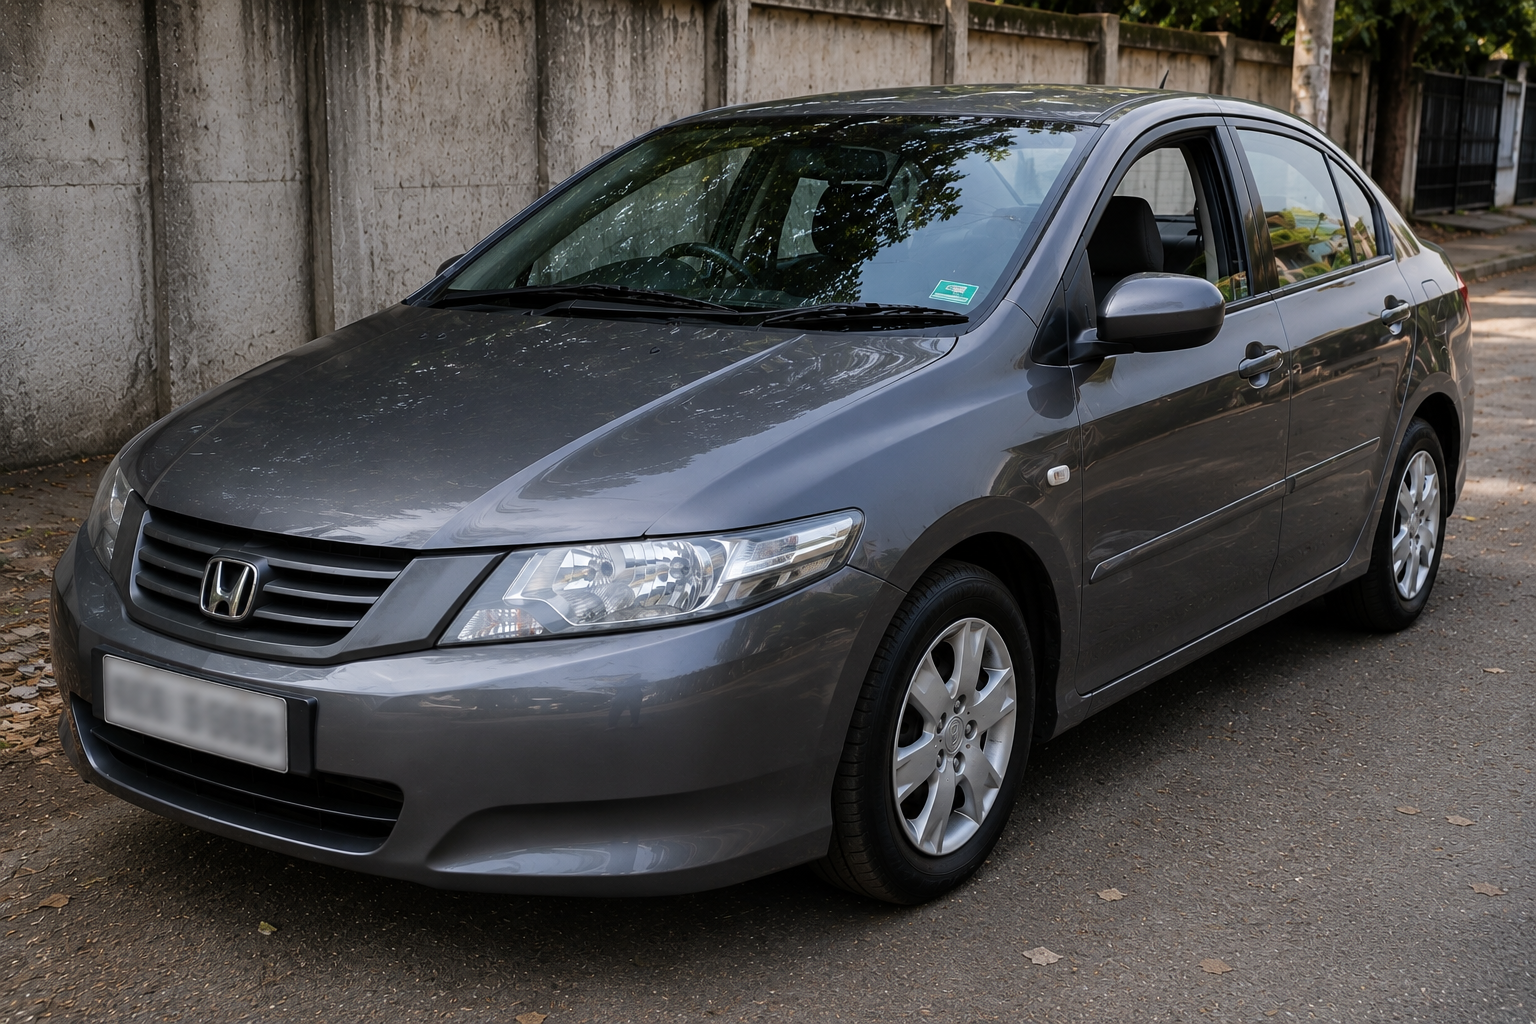
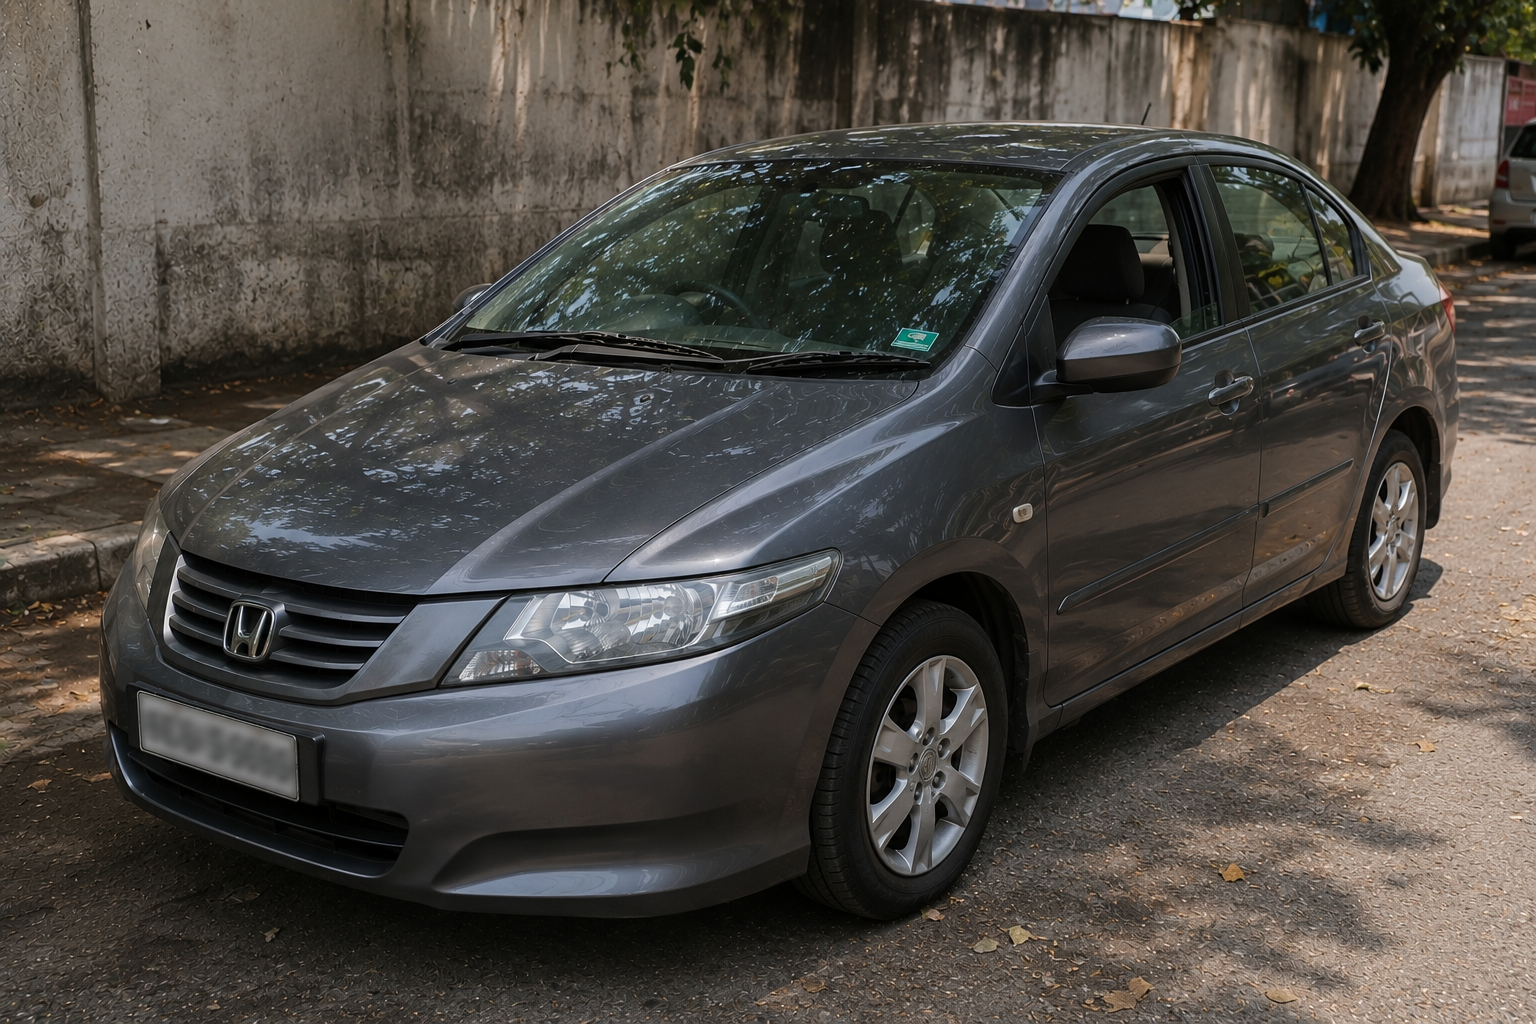
Update after-restoration image to the latest Honda City photo from Downloads

diff --git a/public/sw.js b/public/sw.js
@@ -1,1 +1,1 @@
-if(!self.define){let e,a={};const s=(s,c)=>(s=new URL(s+".js",c).href,a[s]||new Promise(a=>{if("document"in self){const e=document.createElement("script");e.src=s,e.onload=a,document.head.appendChild(e)}else e=s,importScripts(s),a()}).then(()=>{let e=a[s];if(!e)throw new Error(`Module ${s} didn’t register its module`);return e}));self.define=(c,i)=>{const n=e||("document"in self?document.currentScript.src:"")||location.href;if(a[n])return;let r={};const t=e=>s(e,n),o={module:{uri:n},exports:r,require:t};a[n]=Promise.all(c.map(e=>o[e]||t(e))).then(e=>(i(...e),r))}}define(["./workbox-f1770938"],function(e){"use strict";importScripts(),self.skipWaiting(),e.clientsClaim(),e.precacheAndRoute([{url:"/_next/static/chunks/371-4fcc08ecb23c93f7.js",revision:"4fcc08ecb23c93f7"},{url:"/_next/static/chunks/4bd1b696-215e5051988c3dde.js",revision:"215e5051988c3dde"},{url:"/_next/static/chunks/612-3a5bc498544b19ac.js",revision:"3a5bc498544b19ac"},{url:"/_next/static/chunks/619-5a6ea1041b274760.js",revision:"5a6ea1041b274760"},{url:"/_next/static/chunks/650-74768dba0629d000.js",revision:"74768dba0629d000"},{url:"/_next/static/chunks/674-693798524c2da1e4.js",revision:"693798524c2da1e4"},{url:"/_next/static/chunks/899.1813981119fa1f8a.js",revision:"1813981119fa1f8a"},{url:"/_next/static/chunks/909-7ef78ddb92262c58.js",revision:"7ef78ddb92262c58"},{url:"/_next/static/chunks/966.1775eb621d8d3e09.js",revision:"1775eb621d8d3e09"},{url:"/_next/static/chunks/app/_global-error/page-581cfa16c47d4639.js",revision:"581cfa16c47d4639"},{url:"/_next/static/chunks/app/_not-found/page-50c58c0dc87bdc28.js",revision:"50c58c0dc87bdc28"},{url:"/_next/static/chunks/app/about/page-e8c754edeffa663a.js",revision:"e8c754edeffa663a"},{url:"/_next/static/chunks/app/contact/page-ff059d1d2fb85ee0.js",revision:"ff059d1d2fb85ee0"},{url:"/_next/static/chunks/app/gallery/page-475c92fa3c39010c.js",revision:"475c92fa3c39010c"},{url:"/_next/static/chunks/app/layout-7cc00239a9dc1266.js",revision:"7cc00239a9dc1266"},{url:"/_next/static/chunks/app/login/page-5040cbc9862817fc.js",revision:"5040cbc9862817fc"},{url:"/_next/static/chunks/app/page-e1992984d1e6704f.js",revision:"e1992984d1e6704f"},{url:"/_next/static/chunks/app/pricing/page-64a4d9f3443b820a.js",revision:"64a4d9f3443b820a"},{url:"/_next/static/chunks/app/services/%5Bservice%5D/page-79e87e266be6da56.js",revision:"79e87e266be6da56"},{url:"/_next/static/chunks/app/services/page-c00b3a38924d5d76.js",revision:"c00b3a38924d5d76"},{url:"/_next/static/chunks/c15bf2b0-f76613f9ef9aefe2.js",revision:"f76613f9ef9aefe2"},{url:"/_next/static/chunks/framework-93cda6578f6c76ec.js",revision:"93cda6578f6c76ec"},{url:"/_next/static/chunks/main-66ae77c47bf90499.js",revision:"66ae77c47bf90499"},{url:"/_next/static/chunks/main-app-4d78563df7787970.js",revision:"4d78563df7787970"},{url:"/_next/static/chunks/next/dist/client/components/builtin/app-error-581cfa16c47d4639.js",revision:"581cfa16c47d4639"},{url:"/_next/static/chunks/next/dist/client/components/builtin/forbidden-581cfa16c47d4639.js",revision:"581cfa16c47d4639"},{url:"/_next/static/chunks/next/dist/client/components/builtin/global-error-163e86f1e6f973c9.js",revision:"163e86f1e6f973c9"},{url:"/_next/static/chunks/next/dist/client/components/builtin/not-found-581cfa16c47d4639.js",revision:"581cfa16c47d4639"},{url:"/_next/static/chunks/next/dist/client/components/builtin/unauthorized-581cfa16c47d4639.js",revision:"581cfa16c47d4639"},{url:"/_next/static/chunks/polyfills-42372ed130431b0a.js",revision:"846118c33b2c0e922d7b3a7676f81f6f"},{url:"/_next/static/chunks/webpack-6c052340e4eb52a9.js",revision:"6c052340e4eb52a9"},{url:"/_next/static/css/1b87c0ce51a45a77.css",revision:"1b87c0ce51a45a77"},{url:"/_next/static/yIShWBrsJglv1cpYG53x3/_buildManifest.js",revision:"92a8983f77cda2058fb66b774b615daf"},{url:"/_next/static/yIShWBrsJglv1cpYG53x3/_ssgManifest.js",revision:"b6652df95db52feb4daf4eca35380933"},{url:"/brochure.jpg",revision:"41699d8b12775daef4daa3a2bf2f5f8e"},{url:"/cycle-bg.png",revision:"c1c9e7a6cb9034df6c94c1e04957a7fe"},{url:"/file.svg",revision:"d09f95206c3fa0bb9bd9fefabfd0ea71"},{url:"/gallery/bmw-x7-front-grille.jpg",revision:"1afed444a1deb5122606548e832e2201"},{url:"/gallery/bmw-x7-front-three-quarter.jpg",revision:"e979cc7db607ddce6157ae10f14b65b7"},{url:"/gallery/bmw-x7-headlight-detail.jpg",revision:"699dd17401e091cc12beeb4716257a32"},{url:"/gallery/bmw-x7-rear-three-quarter.jpg",revision:"34bdec67509ca1ebdf1b8ae96b97f345"},{url:"/gallery/bmw-x7-side-profile.jpg",revision:"72ad34d886b2f6d9785b90f6dd9f86b4"},{url:"/gallery/bmw-x7-side-reflection.jpg",revision:"f7b43ed36e85d38cecb27ce8af501361"},{url:"/gallery/bmw-x7-taillight-detail.jpg",revision:"5ea9fd3e60f1b5b9ba05fd28c84e9b6d"},{url:"/gallery/bmw-x7-wheel-detail.jpg",revision:"8a42f3cbdc9510d98ace7fb1094493f8"},{url:"/gallery/detailing-hyundai.png",revision:"0c8170f7ed9b98caea0d2956cfd3972d"},{url:"/gallery/detailing-polo.png",revision:"86d5b39b25b0ab42da4e2587c35c537b"},{url:"/gallery/lexus-lc500-carbon-hood.jpg",revision:"3ac72e77d3040f1b476a05803a08698f"},{url:"/gallery/lexus-lc500-front-outdoor.jpg",revision:"fd45d9a1d13126dc43817357a9105466"},{url:"/gallery/lexus-lc500-front-workshop.jpg",revision:"84f15edadb3719ac61beffda4d20b5ba"},{url:"/gallery/lexus-lc500-profile.jpg",revision:"2915c5185fe02f2d9594fcbaad83e862"},{url:"/gallery/lexus-lc500-quarter.jpg",revision:"0e9dd39ed39fa177fb491fc7d1a682b3"},{url:"/gallery/painting-finished-3.png",revision:"397fd6d9528ff1c5eac96d1bcbdceaac"},{url:"/gallery/painting-spray-1.png",revision:"55c044cee0a1a991c530a69755085800"},{url:"/gallery/painting-spray-2.png",revision:"e1c3dc901c69298d025bb16060028079"},{url:"/gallery/restoration-renault.png",revision:"622906c4e693237a6cdeaed9c4723544"},{url:"/gallery/restoration-suzuki-alt.png",revision:"28d935f8a40f6fefe9f9790f8410cadd"},{url:"/gallery/restoration-suzuki.png",revision:"28d935f8a40f6fefe9f9790f8410cadd"},{url:"/globe.svg",revision:"2aaafa6a49b6563925fe440891e32717"},{url:"/hero-bg.png",revision:"145326d88e96ff64b9a1156b7ea3097e"},{url:"/icons/icon-248x248.png",revision:"89b26fd17c7a9a90ec2a75b519f5e0a0"},{url:"/icons/icon-512x512.png",revision:"b7ba37ff0291aab9944af810fa9d9a1a"},{url:"/logo-footer.png",revision:"ae575c464824fe6e99a3e6816e22064e"},{url:"/logo.png",revision:"94d79a645ab0dedb9af6a664aee12b31"},{url:"/manifest.json",revision:"ad2c4cd683727507478ac039499fcf9b"},{url:"/next.svg",revision:"8e061864f388b47f33a1c3780831193e"},{url:"/restoration-after.png",revision:"f5bbc433a9f2997e2bea585ecb787a76"},{url:"/restoration-before.png",revision:"cfc65f36a0a81c2dcc44d724dd1daddd"},{url:"/rideshare-insurance.png",revision:"84e480f6b1ca45653e582e52bd898527"},{url:"/service-1.png",revision:"5fc9239c276252068e76417ebd6d087d"},{url:"/service-2.png",revision:"799416cac8c9759c35195a2529f8d96f"},{url:"/service-3.png",revision:"85bb4f5cc57990d3f02ea538255d511a"},{url:"/service-4.png",revision:"8ef45acedcdbdb2e3f75cbd992eb93b7"},{url:"/service-5.png",revision:"688cfa87cf9c076a134c09e064abfcec"},{url:"/service-6.png",revision:"7cb4a5aeff52448d1c96f02fafb6b9db"},{url:"/vercel.svg",revision:"c0af2f507b369b085b35ef4bbe3bcf1e"},{url:"/window.svg",revision:"a2760511c65806022ad20adf74370ff3"}],{ignoreURLParametersMatching:[/^utm_/,/^fbclid$/]}),e.cleanupOutdatedCaches(),e.registerRoute("/",new e.NetworkFirst({cacheName:"start-url",plugins:[{cacheWillUpdate:async({response:e})=>e&&"opaqueredirect"===e.type?new Response(e.body,{status:200,statusText:"OK",headers:e.headers}):e}]}),"GET"),e.registerRoute(/^https:\/\/fonts\.(?:gstatic)\.com\/.*/i,new e.CacheFirst({cacheName:"google-fonts-webfonts",plugins:[new e.ExpirationPlugin({maxEntries:4,maxAgeSeconds:31536e3})]}),"GET"),e.registerRoute(/^https:\/\/fonts\.(?:googleapis)\.com\/.*/i,new e.StaleWhileRevalidate({cacheName:"google-fonts-stylesheets",plugins:[new e.ExpirationPlugin({maxEntries:4,maxAgeSeconds:604800})]}),"GET"),e.registerRoute(/\.(?:eot|otf|ttc|ttf|woff|woff2|font.css)$/i,new e.StaleWhileRevalidate({cacheName:"static-font-assets",plugins:[new e.ExpirationPlugin({maxEntries:4,maxAgeSeconds:604800})]}),"GET"),e.registerRoute(/\.(?:jpg|jpeg|gif|png|svg|ico|webp)$/i,new e.StaleWhileRevalidate({cacheName:"static-image-assets",plugins:[new e.ExpirationPlugin({maxEntries:64,maxAgeSeconds:2592e3})]}),"GET"),e.registerRoute(/\/_next\/static.+\.js$/i,new e.CacheFirst({cacheName:"next-static-js-assets",plugins:[new e.ExpirationPlugin({maxEntries:64,maxAgeSeconds:86400})]}),"GET"),e.registerRoute(/\/_next\/image\?url=.+$/i,new e.StaleWhileRevalidate({cacheName:"next-image",plugins:[new e.ExpirationPlugin({maxEntries:64,maxAgeSeconds:86400})]}),"GET"),e.registerRoute(/\.(?:mp3|wav|ogg)$/i,new e.CacheFirst({cacheName:"static-audio-assets",plugins:[new e.RangeRequestsPlugin,new e.ExpirationPlugin({maxEntries:32,maxAgeSeconds:86400})]}),"GET"),e.registerRoute(/\.(?:mp4|webm)$/i,new e.CacheFirst({cacheName:"static-video-assets",plugins:[new e.RangeRequestsPlugin,new e.ExpirationPlugin({maxEntries:32,maxAgeSeconds:86400})]}),"GET"),e.registerRoute(/\.(?:js)$/i,new e.StaleWhileRevalidate({cacheName:"static-js-assets",plugins:[new e.ExpirationPlugin({maxEntries:48,maxAgeSeconds:86400})]}),"GET"),e.registerRoute(/\.(?:css|less)$/i,new e.StaleWhileRevalidate({cacheName:"static-style-assets",plugins:[new e.ExpirationPlugin({maxEntries:32,maxAgeSeconds:86400})]}),"GET"),e.registerRoute(/\/_next\/data\/.+\/.+\.json$/i,new e.StaleWhileRevalidate({cacheName:"next-data",plugins:[new e.ExpirationPlugin({maxEntries:32,maxAgeSeconds:86400})]}),"GET"),e.registerRoute(/\.(?:json|xml|csv)$/i,new e.NetworkFirst({cacheName:"static-data-assets",plugins:[new e.ExpirationPlugin({maxEntries:32,maxAgeSeconds:86400})]}),"GET"),e.registerRoute(({sameOrigin:e,url:{pathname:a}})=>!(!e||a.startsWith("/api/auth/callback")||!a.startsWith("/api/")),new e.NetworkFirst({cacheName:"apis",networkTimeoutSeconds:10,plugins:[new e.ExpirationPlugin({maxEntries:16,maxAgeSeconds:86400})]}),"GET"),e.registerRoute(({request:e,url:{pathname:a},sameOrigin:s})=>"1"===e.headers.get("RSC")&&"1"===e.headers.get("Next-Router-Prefetch")&&s&&!a.startsWith("/api/"),new e.NetworkFirst({cacheName:"pages-rsc-prefetch",plugins:[new e.ExpirationPlugin({maxEntries:32,maxAgeSeconds:86400})]}),"GET"),e.registerRoute(({request:e,url:{pathname:a},sameOrigin:s})=>"1"===e.headers.get("RSC")&&s&&!a.startsWith("/api/"),new e.NetworkFirst({cacheName:"pages-rsc",plugins:[new e.ExpirationPlugin({maxEntries:32,maxAgeSeconds:86400})]}),"GET"),e.registerRoute(({url:{pathname:e},sameOrigin:a})=>a&&!e.startsWith("/api/"),new e.NetworkFirst({cacheName:"pages",plugins:[new e.ExpirationPlugin({maxEntries:32,maxAgeSeconds:86400})]}),"GET"),e.registerRoute(({sameOrigin:e})=>!e,new e.NetworkFirst({cacheName:"cross-origin",networkTimeoutSeconds:10,plugins:[new e.ExpirationPlugin({maxEntries:32,maxAgeSeconds:3600})]}),"GET")});
+if(!self.define){let e,a={};const s=(s,n)=>(s=new URL(s+".js",n).href,a[s]||new Promise(a=>{if("document"in self){const e=document.createElement("script");e.src=s,e.onload=a,document.head.appendChild(e)}else e=s,importScripts(s),a()}).then(()=>{let e=a[s];if(!e)throw new Error(`Module ${s} didn’t register its module`);return e}));self.define=(n,i)=>{const c=e||("document"in self?document.currentScript.src:"")||location.href;if(a[c])return;let r={};const t=e=>s(e,c),d={module:{uri:c},exports:r,require:t};a[c]=Promise.all(n.map(e=>d[e]||t(e))).then(e=>(i(...e),r))}}define(["./workbox-f1770938"],function(e){"use strict";importScripts(),self.skipWaiting(),e.clientsClaim(),e.precacheAndRoute([{url:"/_next/static/XC1qz_brfd70JJZun-G4C/_buildManifest.js",revision:"92a8983f77cda2058fb66b774b615daf"},{url:"/_next/static/XC1qz_brfd70JJZun-G4C/_ssgManifest.js",revision:"b6652df95db52feb4daf4eca35380933"},{url:"/_next/static/chunks/371-4fcc08ecb23c93f7.js",revision:"4fcc08ecb23c93f7"},{url:"/_next/static/chunks/4bd1b696-215e5051988c3dde.js",revision:"215e5051988c3dde"},{url:"/_next/static/chunks/612-3a5bc498544b19ac.js",revision:"3a5bc498544b19ac"},{url:"/_next/static/chunks/619-5a6ea1041b274760.js",revision:"5a6ea1041b274760"},{url:"/_next/static/chunks/650-74768dba0629d000.js",revision:"74768dba0629d000"},{url:"/_next/static/chunks/674-693798524c2da1e4.js",revision:"693798524c2da1e4"},{url:"/_next/static/chunks/899.1813981119fa1f8a.js",revision:"1813981119fa1f8a"},{url:"/_next/static/chunks/909-7ef78ddb92262c58.js",revision:"7ef78ddb92262c58"},{url:"/_next/static/chunks/966.1775eb621d8d3e09.js",revision:"1775eb621d8d3e09"},{url:"/_next/static/chunks/app/_global-error/page-581cfa16c47d4639.js",revision:"581cfa16c47d4639"},{url:"/_next/static/chunks/app/_not-found/page-50c58c0dc87bdc28.js",revision:"50c58c0dc87bdc28"},{url:"/_next/static/chunks/app/about/page-e8c754edeffa663a.js",revision:"e8c754edeffa663a"},{url:"/_next/static/chunks/app/contact/page-ff059d1d2fb85ee0.js",revision:"ff059d1d2fb85ee0"},{url:"/_next/static/chunks/app/gallery/page-475c92fa3c39010c.js",revision:"475c92fa3c39010c"},{url:"/_next/static/chunks/app/layout-7cc00239a9dc1266.js",revision:"7cc00239a9dc1266"},{url:"/_next/static/chunks/app/login/page-5040cbc9862817fc.js",revision:"5040cbc9862817fc"},{url:"/_next/static/chunks/app/page-e1992984d1e6704f.js",revision:"e1992984d1e6704f"},{url:"/_next/static/chunks/app/pricing/page-64a4d9f3443b820a.js",revision:"64a4d9f3443b820a"},{url:"/_next/static/chunks/app/services/%5Bservice%5D/page-79e87e266be6da56.js",revision:"79e87e266be6da56"},{url:"/_next/static/chunks/app/services/page-c00b3a38924d5d76.js",revision:"c00b3a38924d5d76"},{url:"/_next/static/chunks/c15bf2b0-f76613f9ef9aefe2.js",revision:"f76613f9ef9aefe2"},{url:"/_next/static/chunks/framework-93cda6578f6c76ec.js",revision:"93cda6578f6c76ec"},{url:"/_next/static/chunks/main-66ae77c47bf90499.js",revision:"66ae77c47bf90499"},{url:"/_next/static/chunks/main-app-4d78563df7787970.js",revision:"4d78563df7787970"},{url:"/_next/static/chunks/next/dist/client/components/builtin/app-error-581cfa16c47d4639.js",revision:"581cfa16c47d4639"},{url:"/_next/static/chunks/next/dist/client/components/builtin/forbidden-581cfa16c47d4639.js",revision:"581cfa16c47d4639"},{url:"/_next/static/chunks/next/dist/client/components/builtin/global-error-163e86f1e6f973c9.js",revision:"163e86f1e6f973c9"},{url:"/_next/static/chunks/next/dist/client/components/builtin/not-found-581cfa16c47d4639.js",revision:"581cfa16c47d4639"},{url:"/_next/static/chunks/next/dist/client/components/builtin/unauthorized-581cfa16c47d4639.js",revision:"581cfa16c47d4639"},{url:"/_next/static/chunks/polyfills-42372ed130431b0a.js",revision:"846118c33b2c0e922d7b3a7676f81f6f"},{url:"/_next/static/chunks/webpack-6c052340e4eb52a9.js",revision:"6c052340e4eb52a9"},{url:"/_next/static/css/1b87c0ce51a45a77.css",revision:"1b87c0ce51a45a77"},{url:"/brochure.jpg",revision:"41699d8b12775daef4daa3a2bf2f5f8e"},{url:"/cycle-bg.png",revision:"c1c9e7a6cb9034df6c94c1e04957a7fe"},{url:"/file.svg",revision:"d09f95206c3fa0bb9bd9fefabfd0ea71"},{url:"/gallery/bmw-x7-front-grille.jpg",revision:"1afed444a1deb5122606548e832e2201"},{url:"/gallery/bmw-x7-front-three-quarter.jpg",revision:"e979cc7db607ddce6157ae10f14b65b7"},{url:"/gallery/bmw-x7-headlight-detail.jpg",revision:"699dd17401e091cc12beeb4716257a32"},{url:"/gallery/bmw-x7-rear-three-quarter.jpg",revision:"34bdec67509ca1ebdf1b8ae96b97f345"},{url:"/gallery/bmw-x7-side-profile.jpg",revision:"72ad34d886b2f6d9785b90f6dd9f86b4"},{url:"/gallery/bmw-x7-side-reflection.jpg",revision:"f7b43ed36e85d38cecb27ce8af501361"},{url:"/gallery/bmw-x7-taillight-detail.jpg",revision:"5ea9fd3e60f1b5b9ba05fd28c84e9b6d"},{url:"/gallery/bmw-x7-wheel-detail.jpg",revision:"8a42f3cbdc9510d98ace7fb1094493f8"},{url:"/gallery/detailing-hyundai.png",revision:"0c8170f7ed9b98caea0d2956cfd3972d"},{url:"/gallery/detailing-polo.png",revision:"86d5b39b25b0ab42da4e2587c35c537b"},{url:"/gallery/lexus-lc500-carbon-hood.jpg",revision:"3ac72e77d3040f1b476a05803a08698f"},{url:"/gallery/lexus-lc500-front-outdoor.jpg",revision:"fd45d9a1d13126dc43817357a9105466"},{url:"/gallery/lexus-lc500-front-workshop.jpg",revision:"84f15edadb3719ac61beffda4d20b5ba"},{url:"/gallery/lexus-lc500-profile.jpg",revision:"2915c5185fe02f2d9594fcbaad83e862"},{url:"/gallery/lexus-lc500-quarter.jpg",revision:"0e9dd39ed39fa177fb491fc7d1a682b3"},{url:"/gallery/painting-finished-3.png",revision:"397fd6d9528ff1c5eac96d1bcbdceaac"},{url:"/gallery/painting-spray-1.png",revision:"55c044cee0a1a991c530a69755085800"},{url:"/gallery/painting-spray-2.png",revision:"e1c3dc901c69298d025bb16060028079"},{url:"/gallery/restoration-renault.png",revision:"622906c4e693237a6cdeaed9c4723544"},{url:"/gallery/restoration-suzuki-alt.png",revision:"28d935f8a40f6fefe9f9790f8410cadd"},{url:"/gallery/restoration-suzuki.png",revision:"28d935f8a40f6fefe9f9790f8410cadd"},{url:"/globe.svg",revision:"2aaafa6a49b6563925fe440891e32717"},{url:"/hero-bg.png",revision:"145326d88e96ff64b9a1156b7ea3097e"},{url:"/icons/icon-248x248.png",revision:"89b26fd17c7a9a90ec2a75b519f5e0a0"},{url:"/icons/icon-512x512.png",revision:"b7ba37ff0291aab9944af810fa9d9a1a"},{url:"/logo-footer.png",revision:"ae575c464824fe6e99a3e6816e22064e"},{url:"/logo.png",revision:"94d79a645ab0dedb9af6a664aee12b31"},{url:"/manifest.json",revision:"ad2c4cd683727507478ac039499fcf9b"},{url:"/next.svg",revision:"8e061864f388b47f33a1c3780831193e"},{url:"/restoration-after.png",revision:"9e031bd68b3437f519f6534d23f2f9f1"},{url:"/restoration-before.png",revision:"cfc65f36a0a81c2dcc44d724dd1daddd"},{url:"/rideshare-insurance.png",revision:"84e480f6b1ca45653e582e52bd898527"},{url:"/service-1.png",revision:"5fc9239c276252068e76417ebd6d087d"},{url:"/service-2.png",revision:"799416cac8c9759c35195a2529f8d96f"},{url:"/service-3.png",revision:"85bb4f5cc57990d3f02ea538255d511a"},{url:"/service-4.png",revision:"8ef45acedcdbdb2e3f75cbd992eb93b7"},{url:"/service-5.png",revision:"688cfa87cf9c076a134c09e064abfcec"},{url:"/service-6.png",revision:"7cb4a5aeff52448d1c96f02fafb6b9db"},{url:"/vercel.svg",revision:"c0af2f507b369b085b35ef4bbe3bcf1e"},{url:"/window.svg",revision:"a2760511c65806022ad20adf74370ff3"}],{ignoreURLParametersMatching:[/^utm_/,/^fbclid$/]}),e.cleanupOutdatedCaches(),e.registerRoute("/",new e.NetworkFirst({cacheName:"start-url",plugins:[{cacheWillUpdate:async({response:e})=>e&&"opaqueredirect"===e.type?new Response(e.body,{status:200,statusText:"OK",headers:e.headers}):e}]}),"GET"),e.registerRoute(/^https:\/\/fonts\.(?:gstatic)\.com\/.*/i,new e.CacheFirst({cacheName:"google-fonts-webfonts",plugins:[new e.ExpirationPlugin({maxEntries:4,maxAgeSeconds:31536e3})]}),"GET"),e.registerRoute(/^https:\/\/fonts\.(?:googleapis)\.com\/.*/i,new e.StaleWhileRevalidate({cacheName:"google-fonts-stylesheets",plugins:[new e.ExpirationPlugin({maxEntries:4,maxAgeSeconds:604800})]}),"GET"),e.registerRoute(/\.(?:eot|otf|ttc|ttf|woff|woff2|font.css)$/i,new e.StaleWhileRevalidate({cacheName:"static-font-assets",plugins:[new e.ExpirationPlugin({maxEntries:4,maxAgeSeconds:604800})]}),"GET"),e.registerRoute(/\.(?:jpg|jpeg|gif|png|svg|ico|webp)$/i,new e.StaleWhileRevalidate({cacheName:"static-image-assets",plugins:[new e.ExpirationPlugin({maxEntries:64,maxAgeSeconds:2592e3})]}),"GET"),e.registerRoute(/\/_next\/static.+\.js$/i,new e.CacheFirst({cacheName:"next-static-js-assets",plugins:[new e.ExpirationPlugin({maxEntries:64,maxAgeSeconds:86400})]}),"GET"),e.registerRoute(/\/_next\/image\?url=.+$/i,new e.StaleWhileRevalidate({cacheName:"next-image",plugins:[new e.ExpirationPlugin({maxEntries:64,maxAgeSeconds:86400})]}),"GET"),e.registerRoute(/\.(?:mp3|wav|ogg)$/i,new e.CacheFirst({cacheName:"static-audio-assets",plugins:[new e.RangeRequestsPlugin,new e.ExpirationPlugin({maxEntries:32,maxAgeSeconds:86400})]}),"GET"),e.registerRoute(/\.(?:mp4|webm)$/i,new e.CacheFirst({cacheName:"static-video-assets",plugins:[new e.RangeRequestsPlugin,new e.ExpirationPlugin({maxEntries:32,maxAgeSeconds:86400})]}),"GET"),e.registerRoute(/\.(?:js)$/i,new e.StaleWhileRevalidate({cacheName:"static-js-assets",plugins:[new e.ExpirationPlugin({maxEntries:48,maxAgeSeconds:86400})]}),"GET"),e.registerRoute(/\.(?:css|less)$/i,new e.StaleWhileRevalidate({cacheName:"static-style-assets",plugins:[new e.ExpirationPlugin({maxEntries:32,maxAgeSeconds:86400})]}),"GET"),e.registerRoute(/\/_next\/data\/.+\/.+\.json$/i,new e.StaleWhileRevalidate({cacheName:"next-data",plugins:[new e.ExpirationPlugin({maxEntries:32,maxAgeSeconds:86400})]}),"GET"),e.registerRoute(/\.(?:json|xml|csv)$/i,new e.NetworkFirst({cacheName:"static-data-assets",plugins:[new e.ExpirationPlugin({maxEntries:32,maxAgeSeconds:86400})]}),"GET"),e.registerRoute(({sameOrigin:e,url:{pathname:a}})=>!(!e||a.startsWith("/api/auth/callback")||!a.startsWith("/api/")),new e.NetworkFirst({cacheName:"apis",networkTimeoutSeconds:10,plugins:[new e.ExpirationPlugin({maxEntries:16,maxAgeSeconds:86400})]}),"GET"),e.registerRoute(({request:e,url:{pathname:a},sameOrigin:s})=>"1"===e.headers.get("RSC")&&"1"===e.headers.get("Next-Router-Prefetch")&&s&&!a.startsWith("/api/"),new e.NetworkFirst({cacheName:"pages-rsc-prefetch",plugins:[new e.ExpirationPlugin({maxEntries:32,maxAgeSeconds:86400})]}),"GET"),e.registerRoute(({request:e,url:{pathname:a},sameOrigin:s})=>"1"===e.headers.get("RSC")&&s&&!a.startsWith("/api/"),new e.NetworkFirst({cacheName:"pages-rsc",plugins:[new e.ExpirationPlugin({maxEntries:32,maxAgeSeconds:86400})]}),"GET"),e.registerRoute(({url:{pathname:e},sameOrigin:a})=>a&&!e.startsWith("/api/"),new e.NetworkFirst({cacheName:"pages",plugins:[new e.ExpirationPlugin({maxEntries:32,maxAgeSeconds:86400})]}),"GET"),e.registerRoute(({sameOrigin:e})=>!e,new e.NetworkFirst({cacheName:"cross-origin",networkTimeoutSeconds:10,plugins:[new e.ExpirationPlugin({maxEntries:32,maxAgeSeconds:3600})]}),"GET")});
